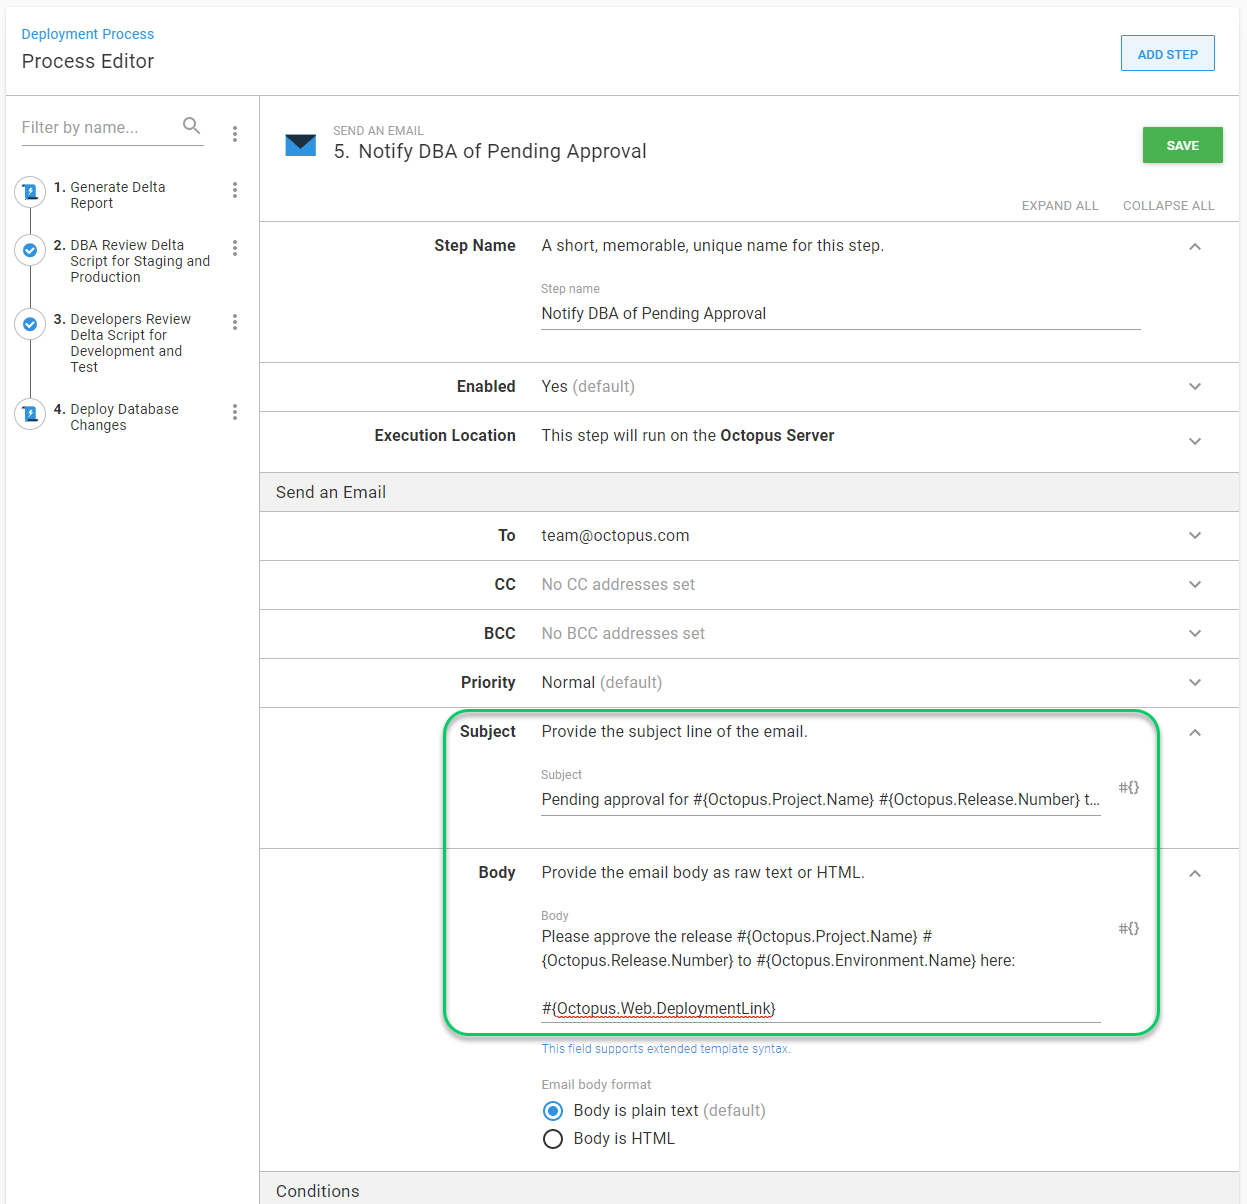
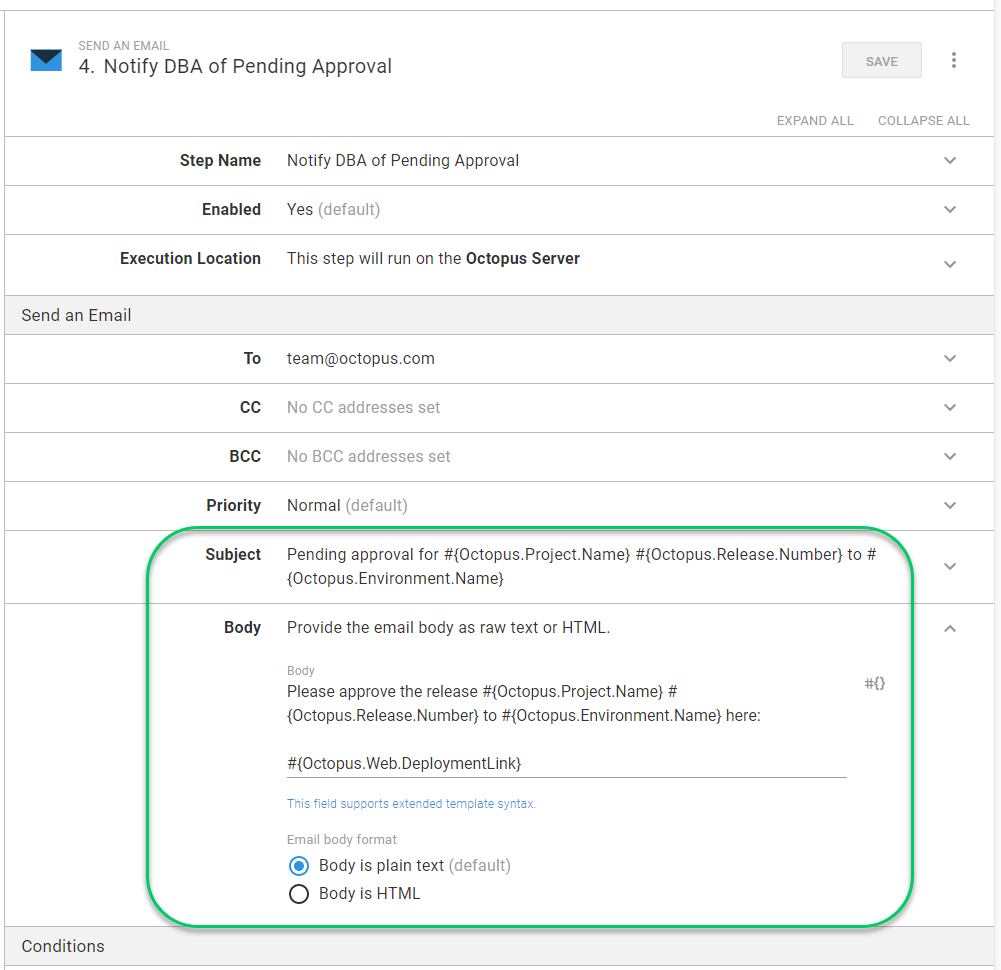
Adjusted screenshot and added text from the screenshot.

diff --git a/blog/2020-05/building-trust-in-automated-db-deployments/index.md b/blog/2020-05/building-trust-in-automated-db-deployments/index.md
@@ -108,10 +108,16 @@ The initial fields in the email form are fairly straight forward.  The subject a
 
 ![](notification-subject-and-body.png)
 
-The subject is getting cut off in the screenshot.  The subject is:
+Retyping what is in a screenshot is not fun.  Below is the text for the subject and body.
 
 ```
+Subject:
 Pending approval for #{Octopus.Project.Name} #{Octopus.Release.Number} to #{Octopus.Environment.Name}
+
+Body:
+Please approve the release #{Octopus.Project.Name} #{Octopus.Release.Number} to #{Octopus.Environment.Name} here:
+
+#{Octopus.Web.DeploymentLink}
 ```
 
 The failure notification is a bit different.  The priority of the email needs to change from normal to high, and the run condition should be configured only to run the step on failure.
